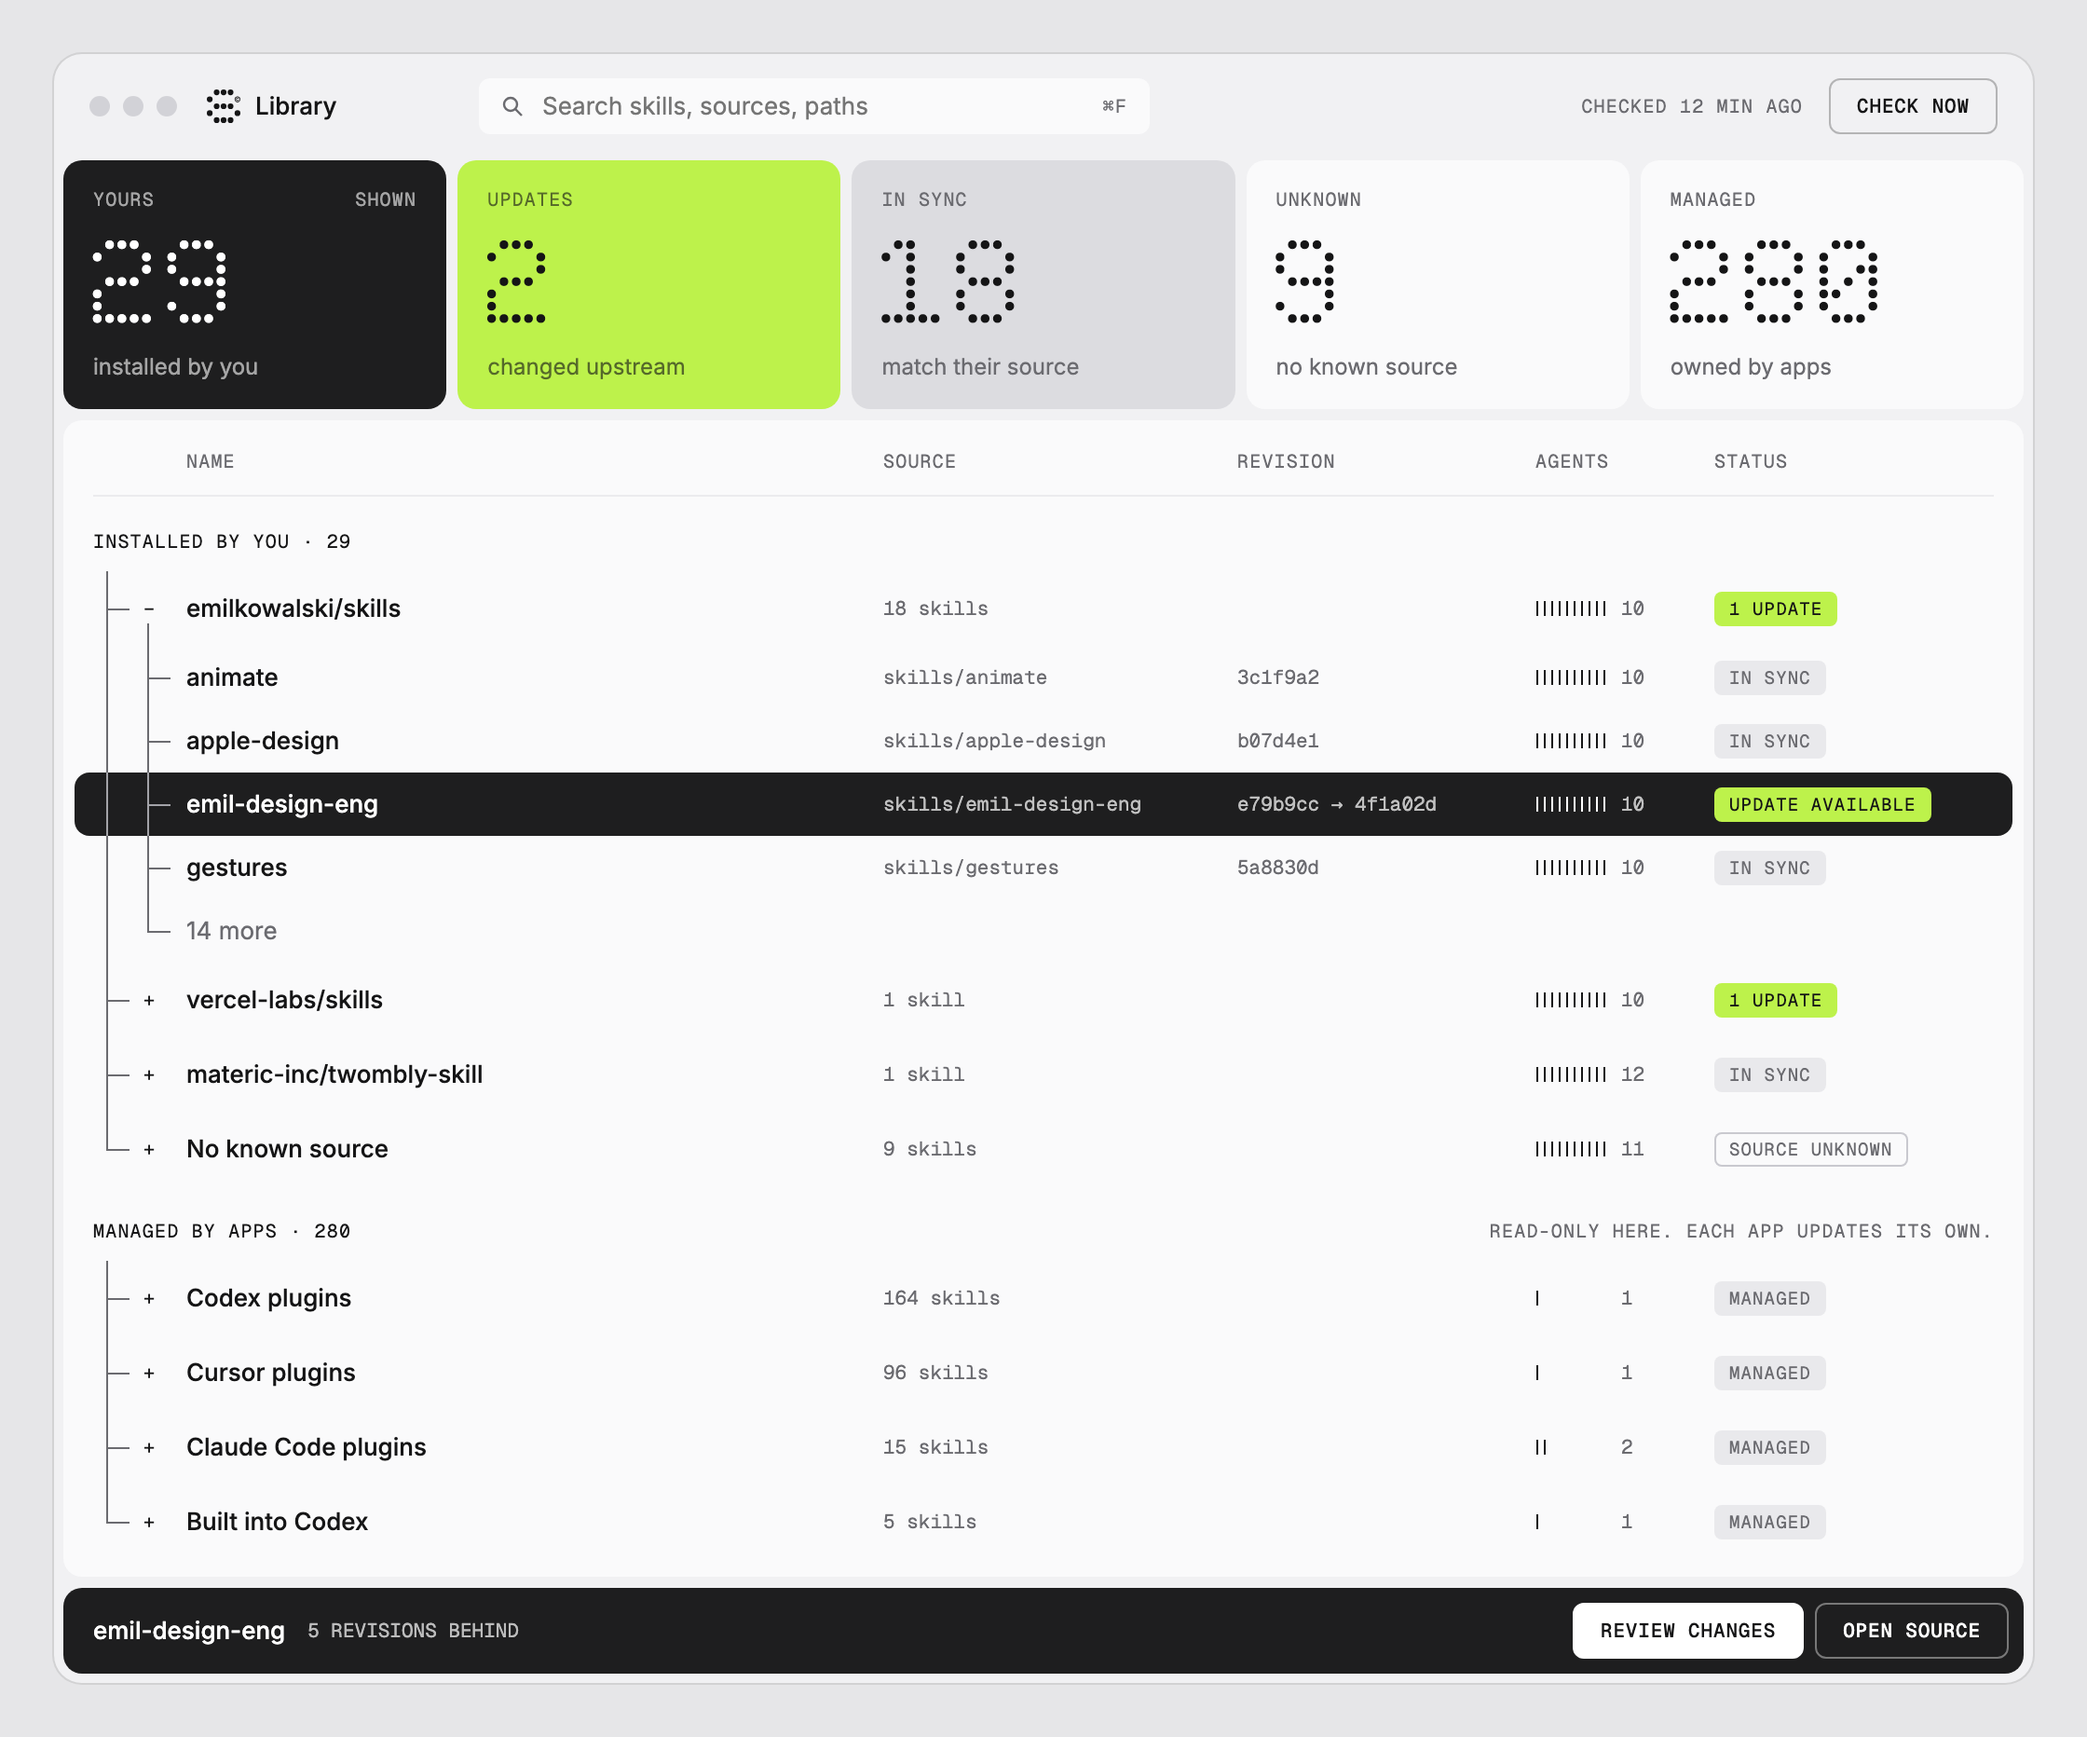
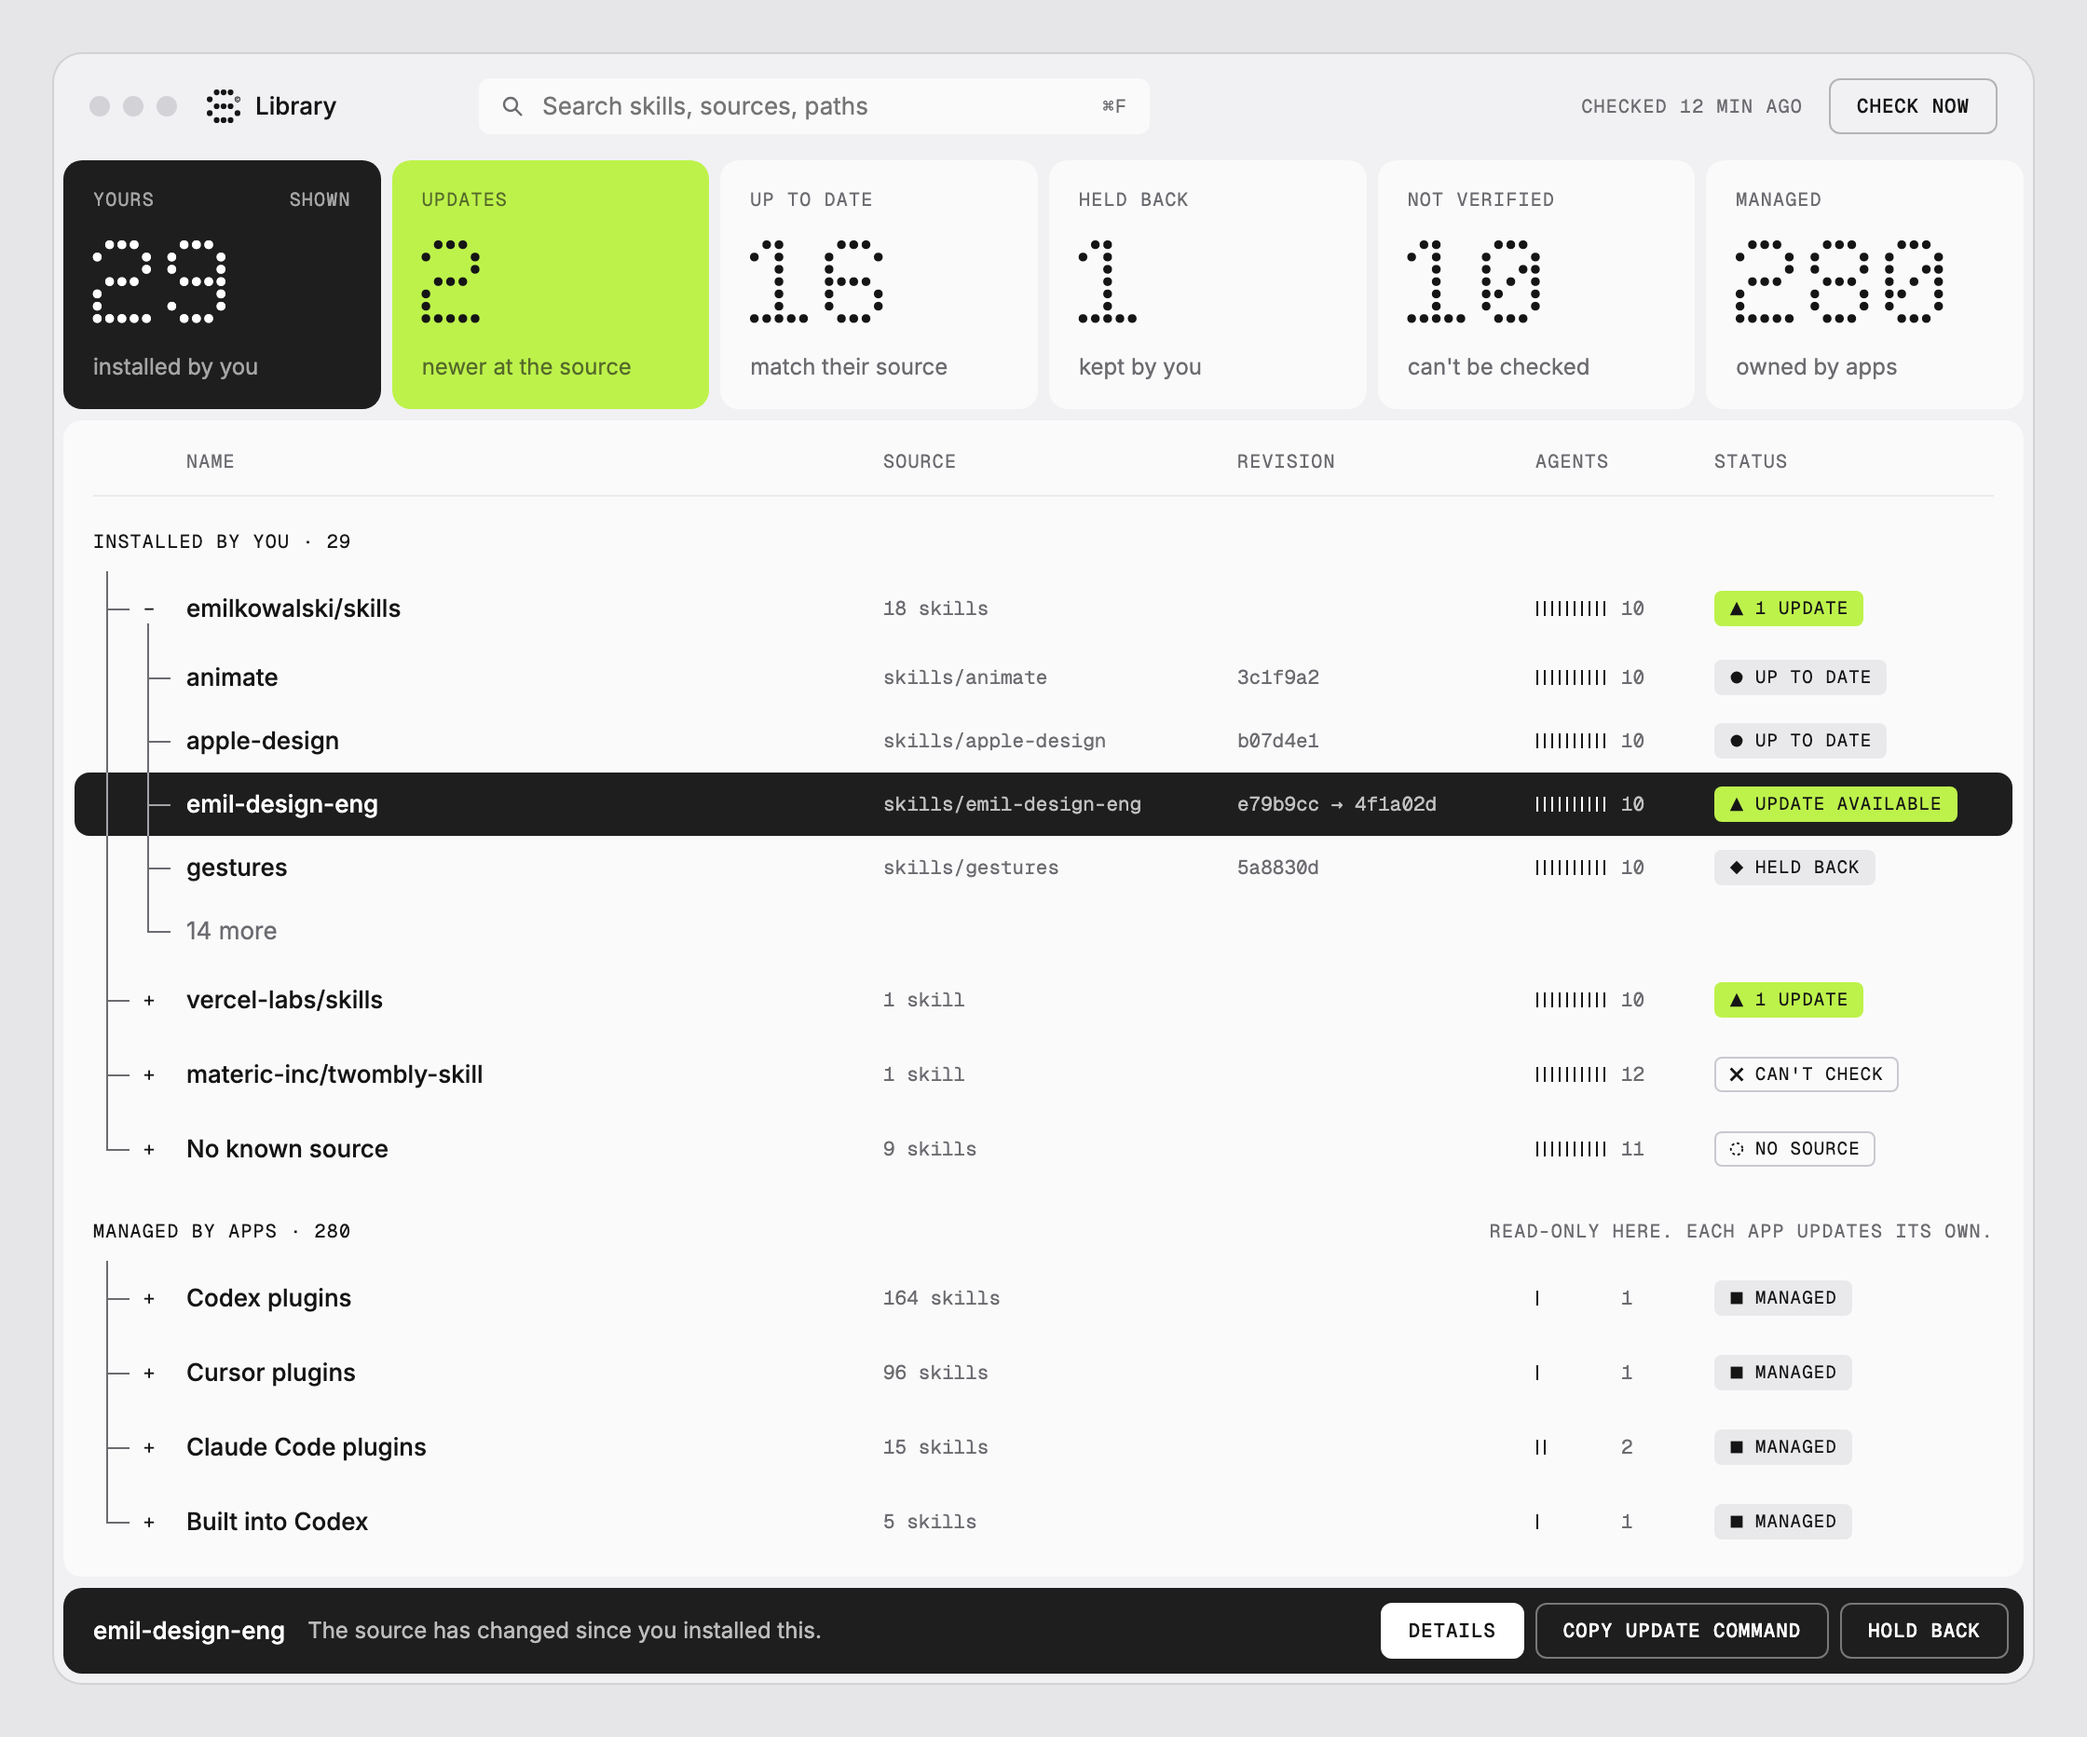
Canvasbilder med de nya statusarna och ark 13 för Link source

diff --git a/docs/design/visuell-riktning-readout-2026-11-12.md b/docs/design/visuell-riktning-readout-2026-11-12.md
@@ -339,3 +339,16 @@ Bilder: `native/utan-glas-*-2026-11-13.png`.
 - **Hörn:** `Radius` är 16 panel, 10 block, 8 rad, 6 kontroller, 4 etiketter. Knappar, etiketter, sökfält och segmentväljare är kantiga.
 
 Skillnader mot canvasen: skalan visas i appen bara i panelens viloläge, eftersom de andra lägena på ark 01 hör till etapp 2. Sökvägsraden i detaljvyn visar bara skillens namn, inte källan. Panelens block är fortfarande kolsvart när en skill har ändrats lokalt; det lila blocket på ark 12 är inte byggt.
+
+### Statusarna på canvasen (13 november, senare)
+
+Efter att uppdateringskontrollen och "Link source" byggdes i appen ritades canvasen om så att den visar samma statusar som appen. Bilderna i `v4/` är uppdaterade.
+
+- **05:** de tio statusarna med form, ord och betydelse: Up to date, Update available, Differs from source, Held back, Changed here, Check failed, Can't check, Not checked, No source och Managed. De gamla (In sync, Local changes, Source unknown, Linked by you, Pinned, Old result) är borta.
+- **02 Bibliotek:** sex brickor (Yours, Updates, Up to date, Held back, Not verified, Managed), etiketterna med form, och den fasta raden med Details, Copy update command och Hold back.
+- **01 Panel:** de tre lägen appen har: en källa har något nytt (lime), inget nytt, och kontrollen avstängd. Läget "ingen kontakt" som eget lila block finns inte kvar på arket; appen visar det som en tidsstämpel ("No contact · last 14:20").
+- **03 Detalj:** meningen om vad statusen betyder, knapparna Copy update command, See what changed och Hold back, och raderna Source now och Checked på typskylten.
+- **08 Märket:** menyraden har fyra lägen: vila, uppdatering (lime platta), kräver dig (lila platta) och ingen aktuell avläsning. Lila vinner när båda gäller.
+- **13 Link source (nytt):** dialogen efter Find, de tre sorternas träff och vilken status en länkad skill får.
+
+Kvar som tänkt men inte byggt: ark 04 (granska ändringar), revisionsskalan på ark 03, och det mesta på ark 10 (inställningar) utöver av/på för kontrollen.
